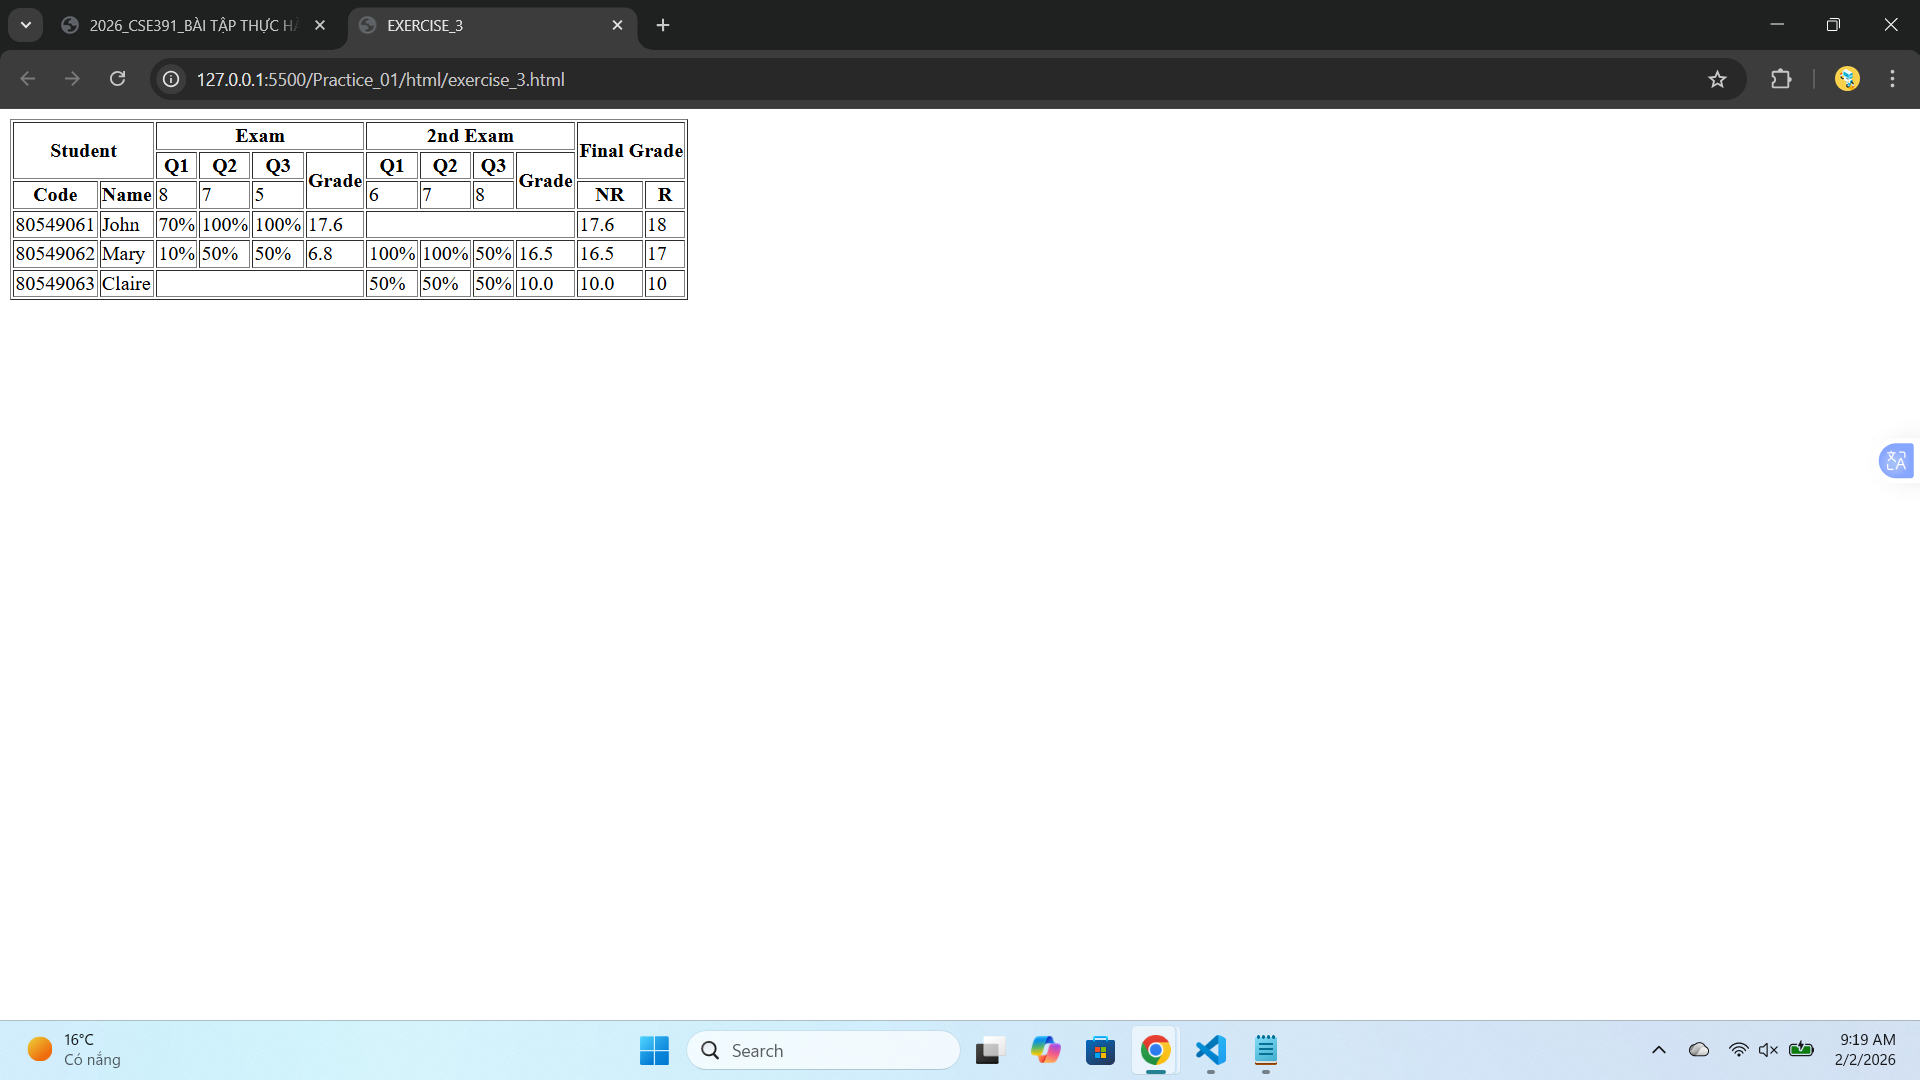
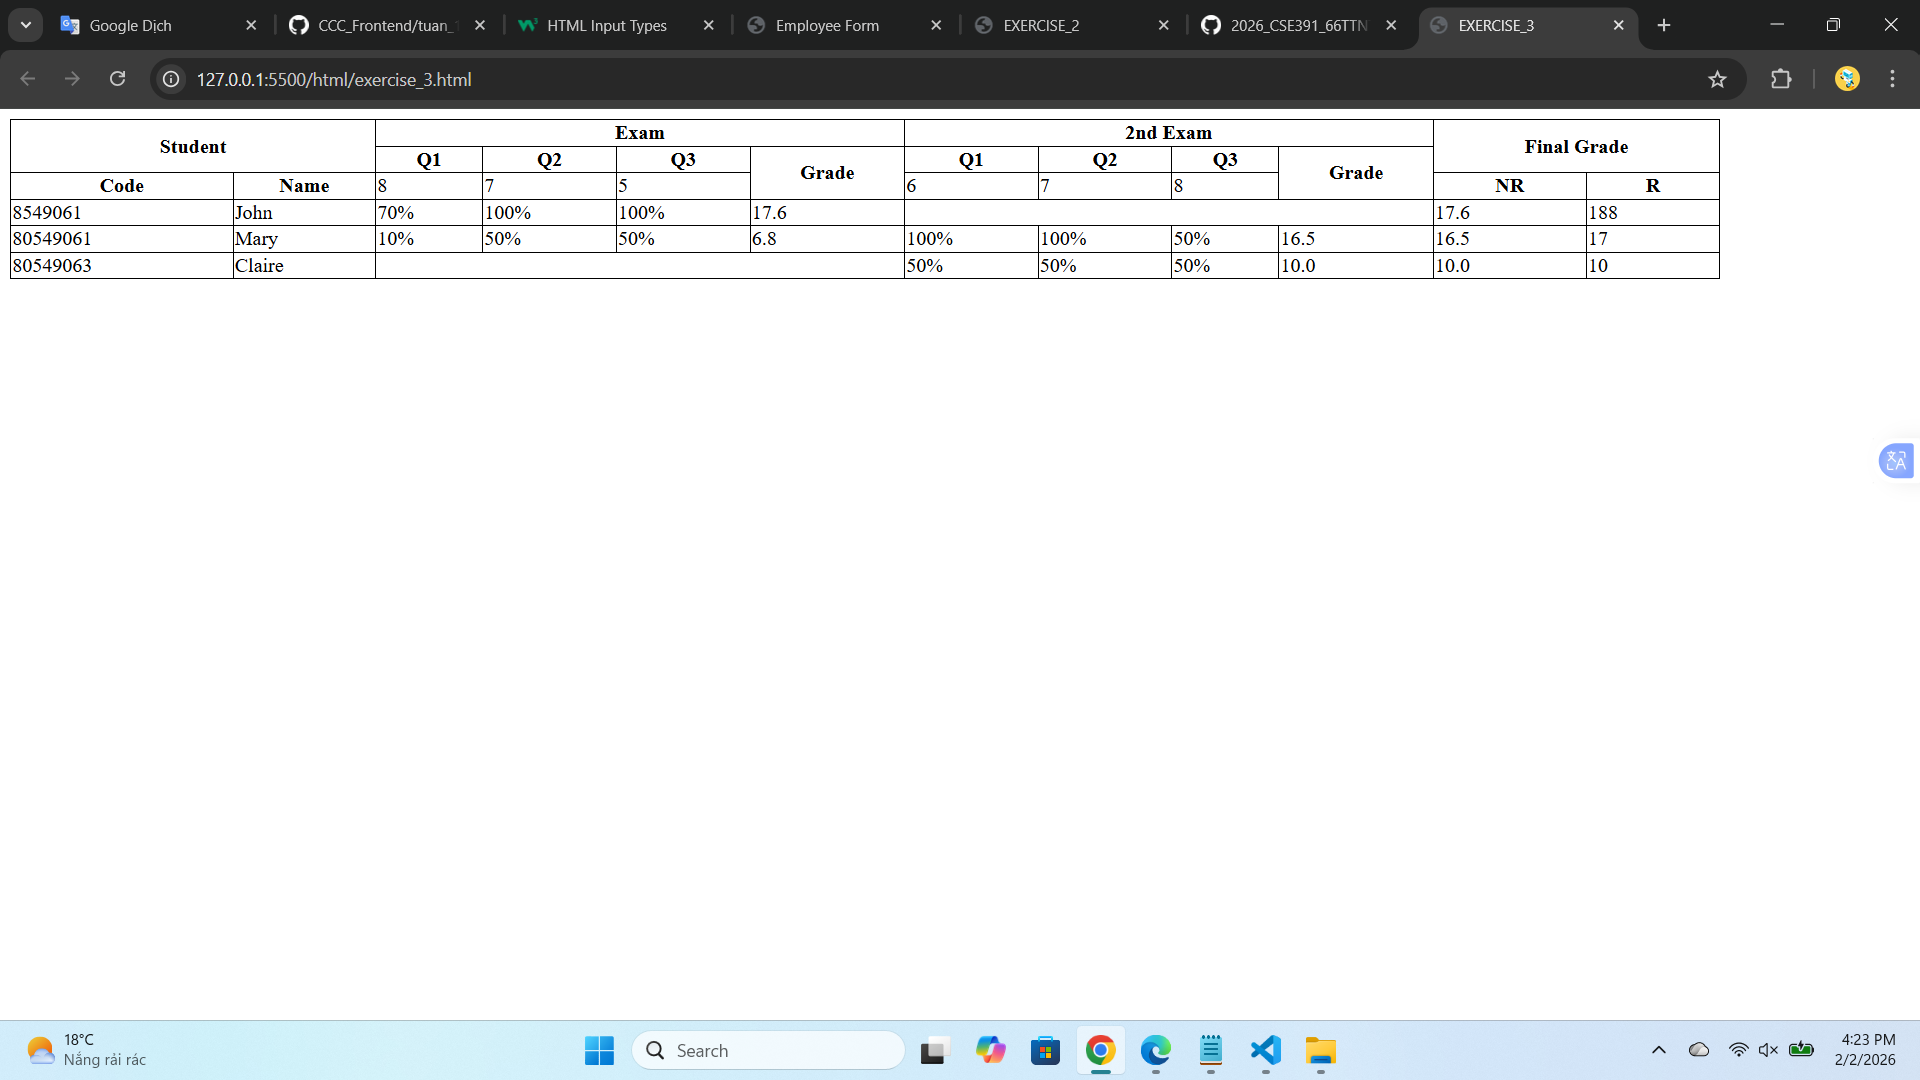
sửa title của exercise4 up kết quả  mới của exercise3

diff --git a/Practice_01/html/exercise_4.html b/Practice_01/html/exercise_4.html
@@ -2,7 +2,7 @@
 <html lang="vi">
   <head>
     <meta charset="UTF-8" />
-    <title>Employee Form</title>
+    <title>EXERCISE_4</title>
   </head>
   <body>
     <h3>Basic Info</h3>
